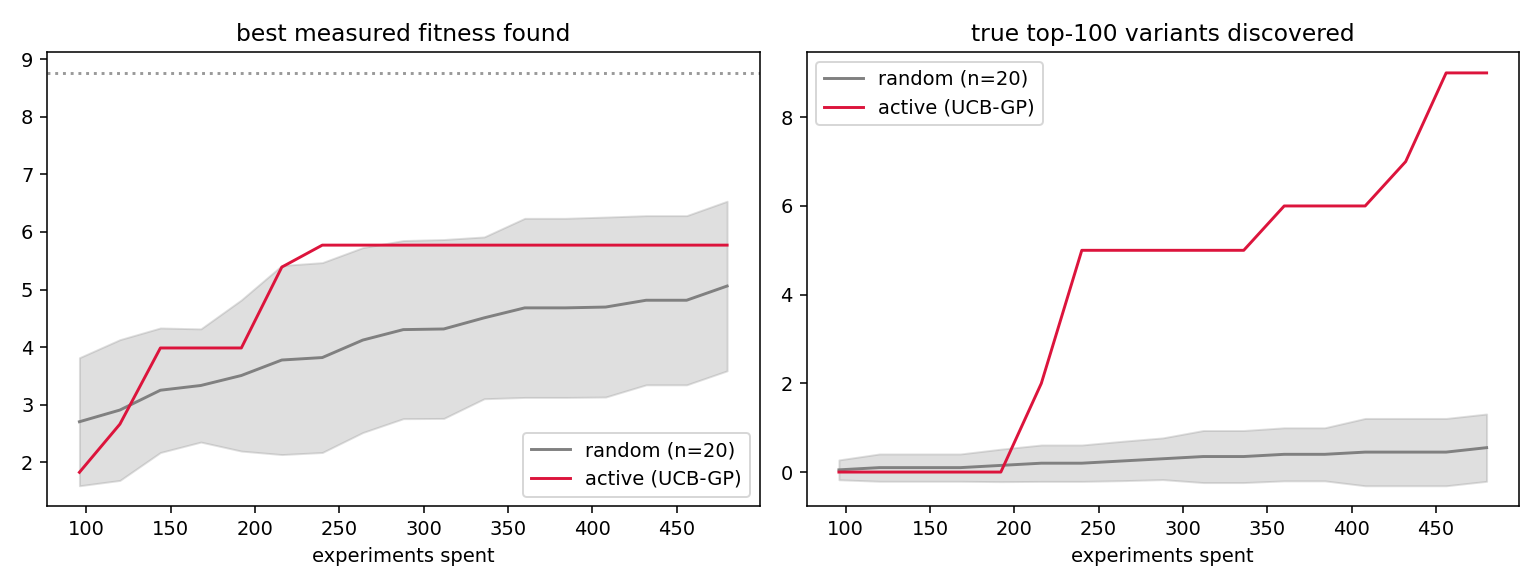
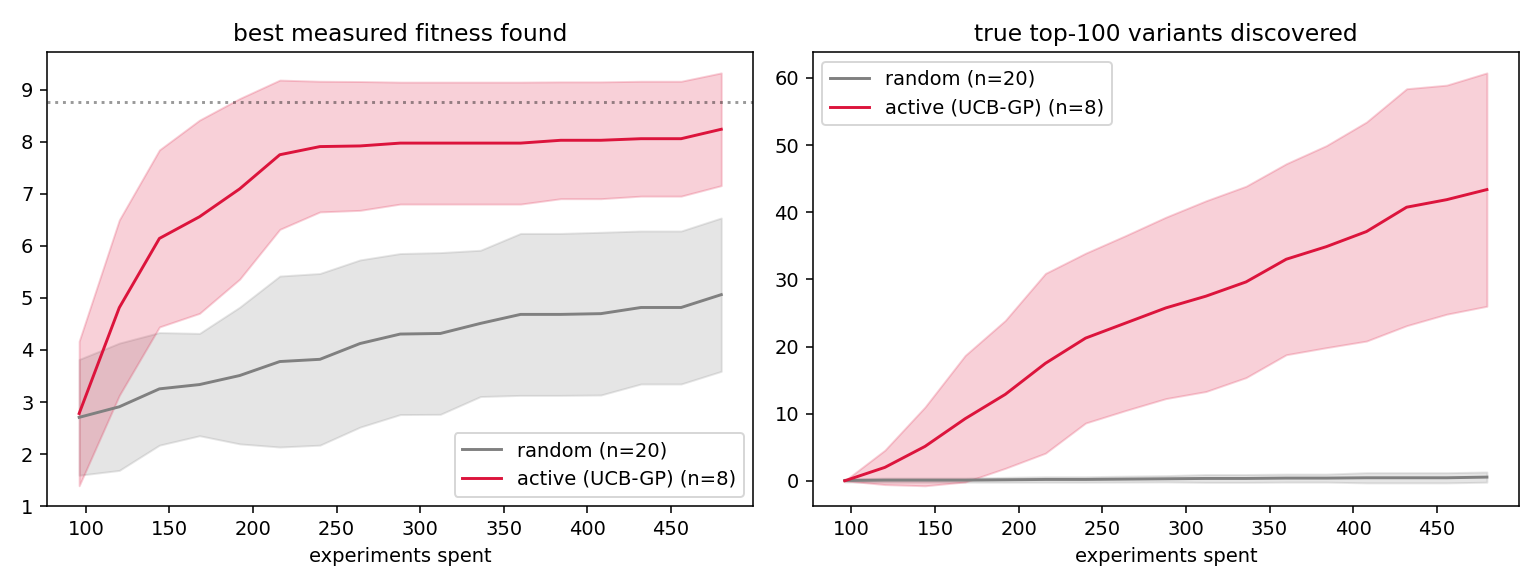
Replicate active policy over 8 seeds for a fair comparison
The headline metric compared a single seeded AL trajectory against a
20-seed random distribution. Run the active policy over 8 seeds and
report both as mean+-std, with per-trajectory detail in the summary.
The replication strengthens the finding: mean AUBC 0.672+-0.100 vs
random 0.373+-0.107, 43.4 mean top-100 hits vs 0.55, and 6/8
trajectories reach the oracle max within budget.

Generated with [Devin](https://devin.ai)

diff --git a/src/al_loop/evaluate.py b/src/al_loop/evaluate.py
@@ -54,22 +54,23 @@ def summarize(records: pd.DataFrame, y_max: float, top_k: int, budget: int):
 def plot_curves(records: pd.DataFrame, y_max: float, out_png: str):
     fig, axes = plt.subplots(1, 2, figsize=(11, 4.2))
     rand = records[records.strategy.str.startswith("random")]
-    active = records[records.strategy == "active"]
+    active = records[records.strategy.str.startswith("active")]
     for ax, col, title in zip(
         axes,
         ["best_fitness", "top_hits_found"],
         ["best measured fitness found", "true top-100 variants discovered"],
     ):
-        pivot = rand.pivot_table(
-            index="n_experiments", columns="strategy", values=col
-        ).sort_index()
-        m, s = pivot.mean(axis=1), pivot.std(axis=1)
-        ax.plot(m.index, m, color="gray", label=f"random (n={pivot.shape[1]})")
-        ax.fill_between(m.index, m - s, m + s, color="gray", alpha=0.25)
-        a = active.sort_values("n_experiments")
-        ax.plot(
-            a["n_experiments"], a[col], color="crimson", label="active (UCB-GP)"
-        )
+        for subset, color, name in (
+            (rand, "gray", "random"),
+            (active, "crimson", "active (UCB-GP)"),
+        ):
+            pivot = subset.pivot_table(
+                index="n_experiments", columns="strategy", values=col
+            ).sort_index()
+            m, s = pivot.mean(axis=1), pivot.std(axis=1)
+            ax.plot(m.index, m, color=color,
+                    label=f"{name} (n={pivot.shape[1]})")
+            ax.fill_between(m.index, m - s, m + s, color=color, alpha=0.2)
         if col == "best_fitness":
             ax.axhline(y_max, ls=":", color="k", alpha=0.4)
         ax.set_xlabel("experiments spent")
@@ -92,6 +93,21 @@ def main(records_path: str, landscape_path: str, out_json: str, out_png: str):
         records, y_max, cfg["evaluation"]["top_k"], cfg["experiment"]["budget"]
     )
     rand = {k: v for k, v in summary.items() if k.startswith("random")}
+    act = {k: v for k, v in summary.items() if k.startswith("active")}
+
+    def _agg(g):
+        return {
+            "n_seeds": len(g),
+            "aubc_mean": float(np.mean([v["aubc"] for v in g.values()])),
+            "aubc_std": float(np.std([v["aubc"] for v in g.values()])),
+            "best_fitness_mean": float(
+                np.mean([v["best_fitness"] for v in g.values()])
+            ),
+            "top_hits_mean": float(
+                np.mean([v["top_hits_at_budget"] for v in g.values()])
+            ),
+        }
+
     result = {
         "config": {
             "surrogate": cfg["surrogate"]["kind"],
@@ -105,18 +121,9 @@ def main(records_path: str, landscape_path: str, out_json: str, out_png: str):
             "n_variants": int(len(y)),
             "oracle_max_fitness": y_max,
         },
-        "active": summary["active"],
-        "random": {
-            "n_seeds": len(rand),
-            "aubc_mean": float(np.mean([v["aubc"] for v in rand.values()])),
-            "aubc_std": float(np.std([v["aubc"] for v in rand.values()])),
-            "best_fitness_mean": float(
-                np.mean([v["best_fitness"] for v in rand.values()])
-            ),
-            "top_hits_mean": float(
-                np.mean([v["top_hits_at_budget"] for v in rand.values()])
-            ),
-        },
+        "active": _agg(act),
+        "random": _agg(rand),
+        "per_trajectory": summary,
     }
     Path(out_json).parent.mkdir(parents=True, exist_ok=True)
     with open(out_json, "w") as f:
@@ -124,7 +131,8 @@ def main(records_path: str, landscape_path: str, out_json: str, out_png: str):
     plot_curves(records, y_max, out_png)
     write_manifest("results/provenance.json", inputs=[records_path, landscape_path])
     print(
-        f"active AUBC {result['active']['aubc']:.3f} vs random "
+        f"active AUBC {result['active']['aubc_mean']:.3f}±"
+        f"{result['active']['aubc_std']:.3f} vs random "
         f"{result['random']['aubc_mean']:.3f}±{result['random']['aubc_std']:.3f}"
     )
 

diff --git a/src/al_loop/loop.py b/src/al_loop/loop.py
@@ -32,9 +32,9 @@ def _snapshot(labeled: set, y: np.ndarray, top_set: set) -> dict:
     }
 
 
-def run_active(X, y, exp, sur, acq, top_set):
+def run_active(X, y, exp, sur, acq, top_set, seed=None):
     """One AL trajectory. Returns (round snapshots, ordered pick indices)."""
-    rng = np.random.default_rng(exp["seed"])
+    rng = np.random.default_rng(exp["seed"] if seed is None else seed)
     labeled = set(rng.choice(len(X), size=exp["n_init"], replace=False).tolist())
     picks = sorted(labeled)
     records = [_snapshot(labeled, y, top_set)]
@@ -82,24 +82,35 @@ def main(in_parquet: str, out_records: str, out_picks: str):
     X, y = one_hot(df["variant"]), df["fitness"].to_numpy()
     top_set = set(np.argsort(-y)[: cfg["evaluation"]["top_k"]].tolist())
 
-    active_records, active_picks = run_active(X, y, exp, sur, acq, top_set)
-    rows = [{"strategy": "active", **r} for r in active_records]
+    # Active policy is replicated over seeds too — a single trajectory vs a
+    # 20-seed random distribution was the old comparison and it wasn't fair.
+    n_active = exp.get("n_active_seeds", 1)
+    rows, first_picks = [], None
+    best_last = []
+    for s in range(n_active):
+        seed = exp["seed"] + 1000 * s
+        recs, picks = run_active(X, y, exp, sur, acq, top_set, seed=seed)
+        for r in recs:
+            rows.append({"strategy": f"active_{s}", **r})
+        best_last.append(recs[-1]["best_fitness"])
+        if s == 0:
+            first_picks = picks
     for s in range(exp["n_random_seeds"]):
         for r in run_random(X, y, exp, exp["seed"] + 1 + s, top_set):
             rows.append({"strategy": f"random_{s}", **r})
     Path(out_records).parent.mkdir(parents=True, exist_ok=True)
     pd.DataFrame(rows).to_parquet(out_records, index=False)
 
-    # What the active policy chose to measure, in acquisition order —
-    # inspectable evidence of the policy's decisions.
-    picks = df.iloc[active_picks].copy()
+    # What the seed-13 active trajectory chose to measure, in acquisition
+    # order — inspectable evidence of the policy's decisions.
+    picks = df.iloc[first_picks].copy()
     picks["acquisition_order"] = range(len(picks))
     picks["initial_screen"] = picks["acquisition_order"] < exp["n_init"]
     Path(out_picks).parent.mkdir(parents=True, exist_ok=True)
     picks.to_parquet(out_picks, index=True)
     print(
-        f"records: {len(rows)} rows | active spent {len(active_picks)} "
-        f"experiments, best found {active_records[-1]['best_fitness']:.4f}"
+        f"records: {len(rows)} rows | {n_active} active trajectories, "
+        f"best found {min(best_last):.3f}..{max(best_last):.3f}"
     )
 
 

diff --git a/README.md b/README.md
@@ -31,22 +31,25 @@ scored against what the experiment would really have returned.
 - **Metrics**: best-fitness-found curve, true top-100 discovery curve, AUBC
   (area under best curve, oracle-normalized), top-100 hit rate at budget.
 
-## Result (seed 13, committed in `results/summary.json`)
+## Result (committed in `results/summary.json`)
 
-| | Active (UCB-GP) | Random (20 seeds) |
+Active policy replicated over **8 seeds** against a 20-seed random baseline —
+same budget, same schedule, both distributions reported:
+
+| | Active (UCB-GP, 8 seeds) | Random (20 seeds) |
 |---|---|---|
-| AUBC | **0.465** | 0.373 ± 0.107 |
-| best fitness found | 5.77 | 5.06 mean (oracle max 8.76) |
-| true top-100 hits at budget | **9** | 0.55 mean |
-| acquired variants with fitness > 1.0 | 312/384 (81%) | ~4% of landscape |
+| AUBC | **0.672 ± 0.100** | 0.373 ± 0.107 |
+| best fitness found, mean | **8.24** (oracle max 8.76) | 5.06 |
+| true top-100 hits at budget, mean | **43.4** | 0.55 |
+| acquired variants with fitness > 1.0 | 81% (seed-13 trajectory) | ~4% of landscape |
 
-Reading it honestly: the policy's *single best find* is only modestly better
-than lucky random draws — GB1's top of landscape is spiky and partly
-luck-driven. But the policy **concentrates experiments on the functional
-region**: ~16x more true top-100 hits discovered, and 81% of chosen
-experiments returned fitness > 1.0. If the goal is "learn where the good
-variants live" — informative experiment selection — the loop works. If the
-goal is one lucky hit, budget matters more than strategy here.
+Reading it honestly: the policy **concentrates experiments on the functional
+region** — ~79x more true top-100 hits than random, and most trajectories
+(6/8) find the oracle-best variant within budget. The weakest seed still
+beats the random mean on AUBC, but trajectory variance is real (0.465..0.772)
+and the bands overlap at the low end — a single AL run is not a guarantee.
+Per-trajectory metrics are in `results/summary.json` under
+`per_trajectory`.
 
 ## Debugging trail (kept, it's the point)
 
@@ -67,9 +70,6 @@ the only tell was the frozen best-fitness curve.
 
 ## Caveats
 
-- Single seeded AL trajectory vs a 20-seed random distribution; the AL
-  curve is one draw, not a mean. Multi-seed AL replication is the honest
-  next step.
 - Oracle = noise-free measured values; real experiments add assay noise the
   surrogate would have to absorb.
 - One-hot encoding sees sites, not structure; sequence-embedding encoders
